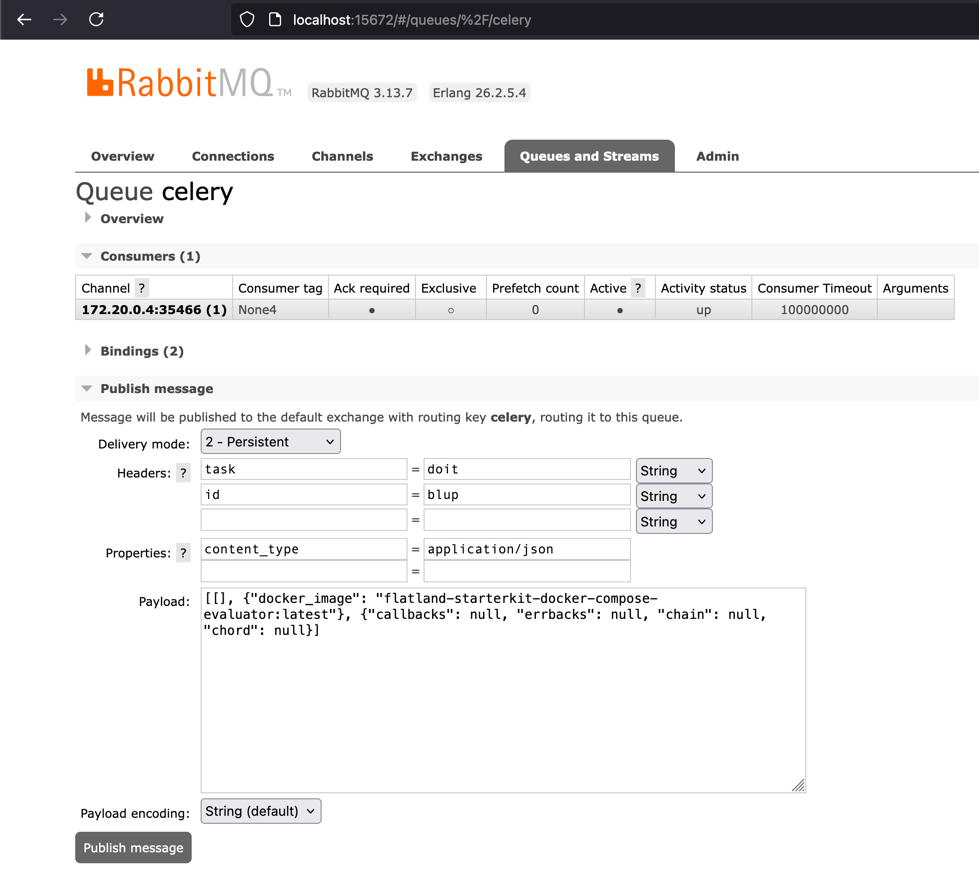
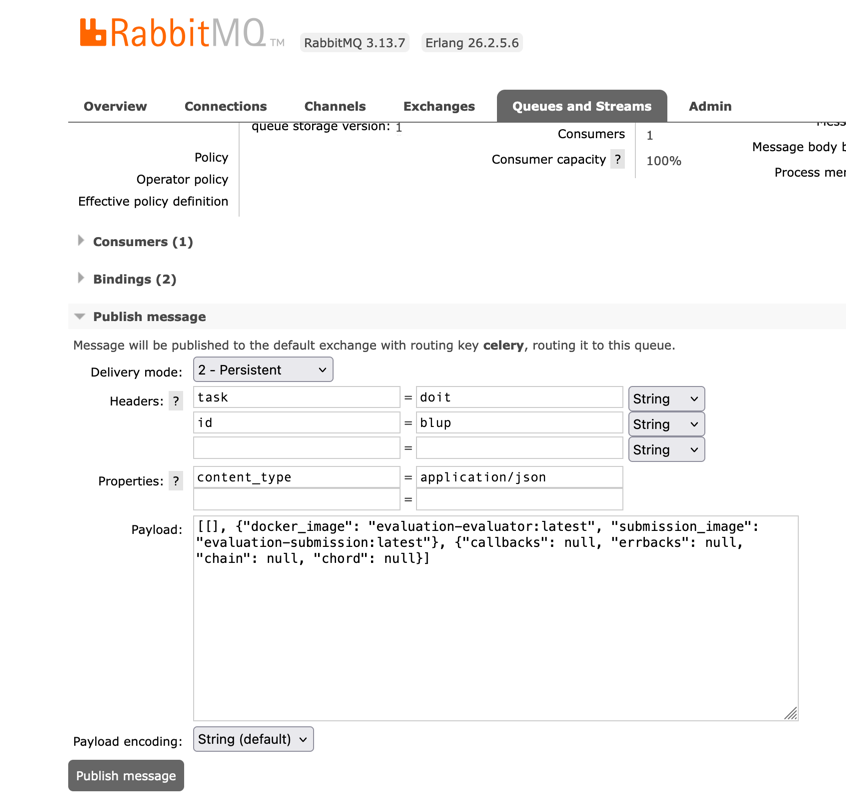
Update evaluator README, manual triggering of rabbit.

diff --git a/evaluation/README.md b/evaluation/README.md
@@ -81,11 +81,14 @@ Manual triggering via RabbitMQ web triggers `compute_worker`:
 
 ![celery_manual_publish.png](img/celery_manual_publish.png)
 
+TODO use ghcr images instead of local ones!
+
 ```json
 [
   [],
   {
-    "docker_image": "flatland-starterkit-docker-compose-evaluator:latest"
+    "docker_image": "evaluation-evaluator:latest",
+    "submission_image": "evaluation-submission:latest"
   },
   {
     "callbacks": null,
